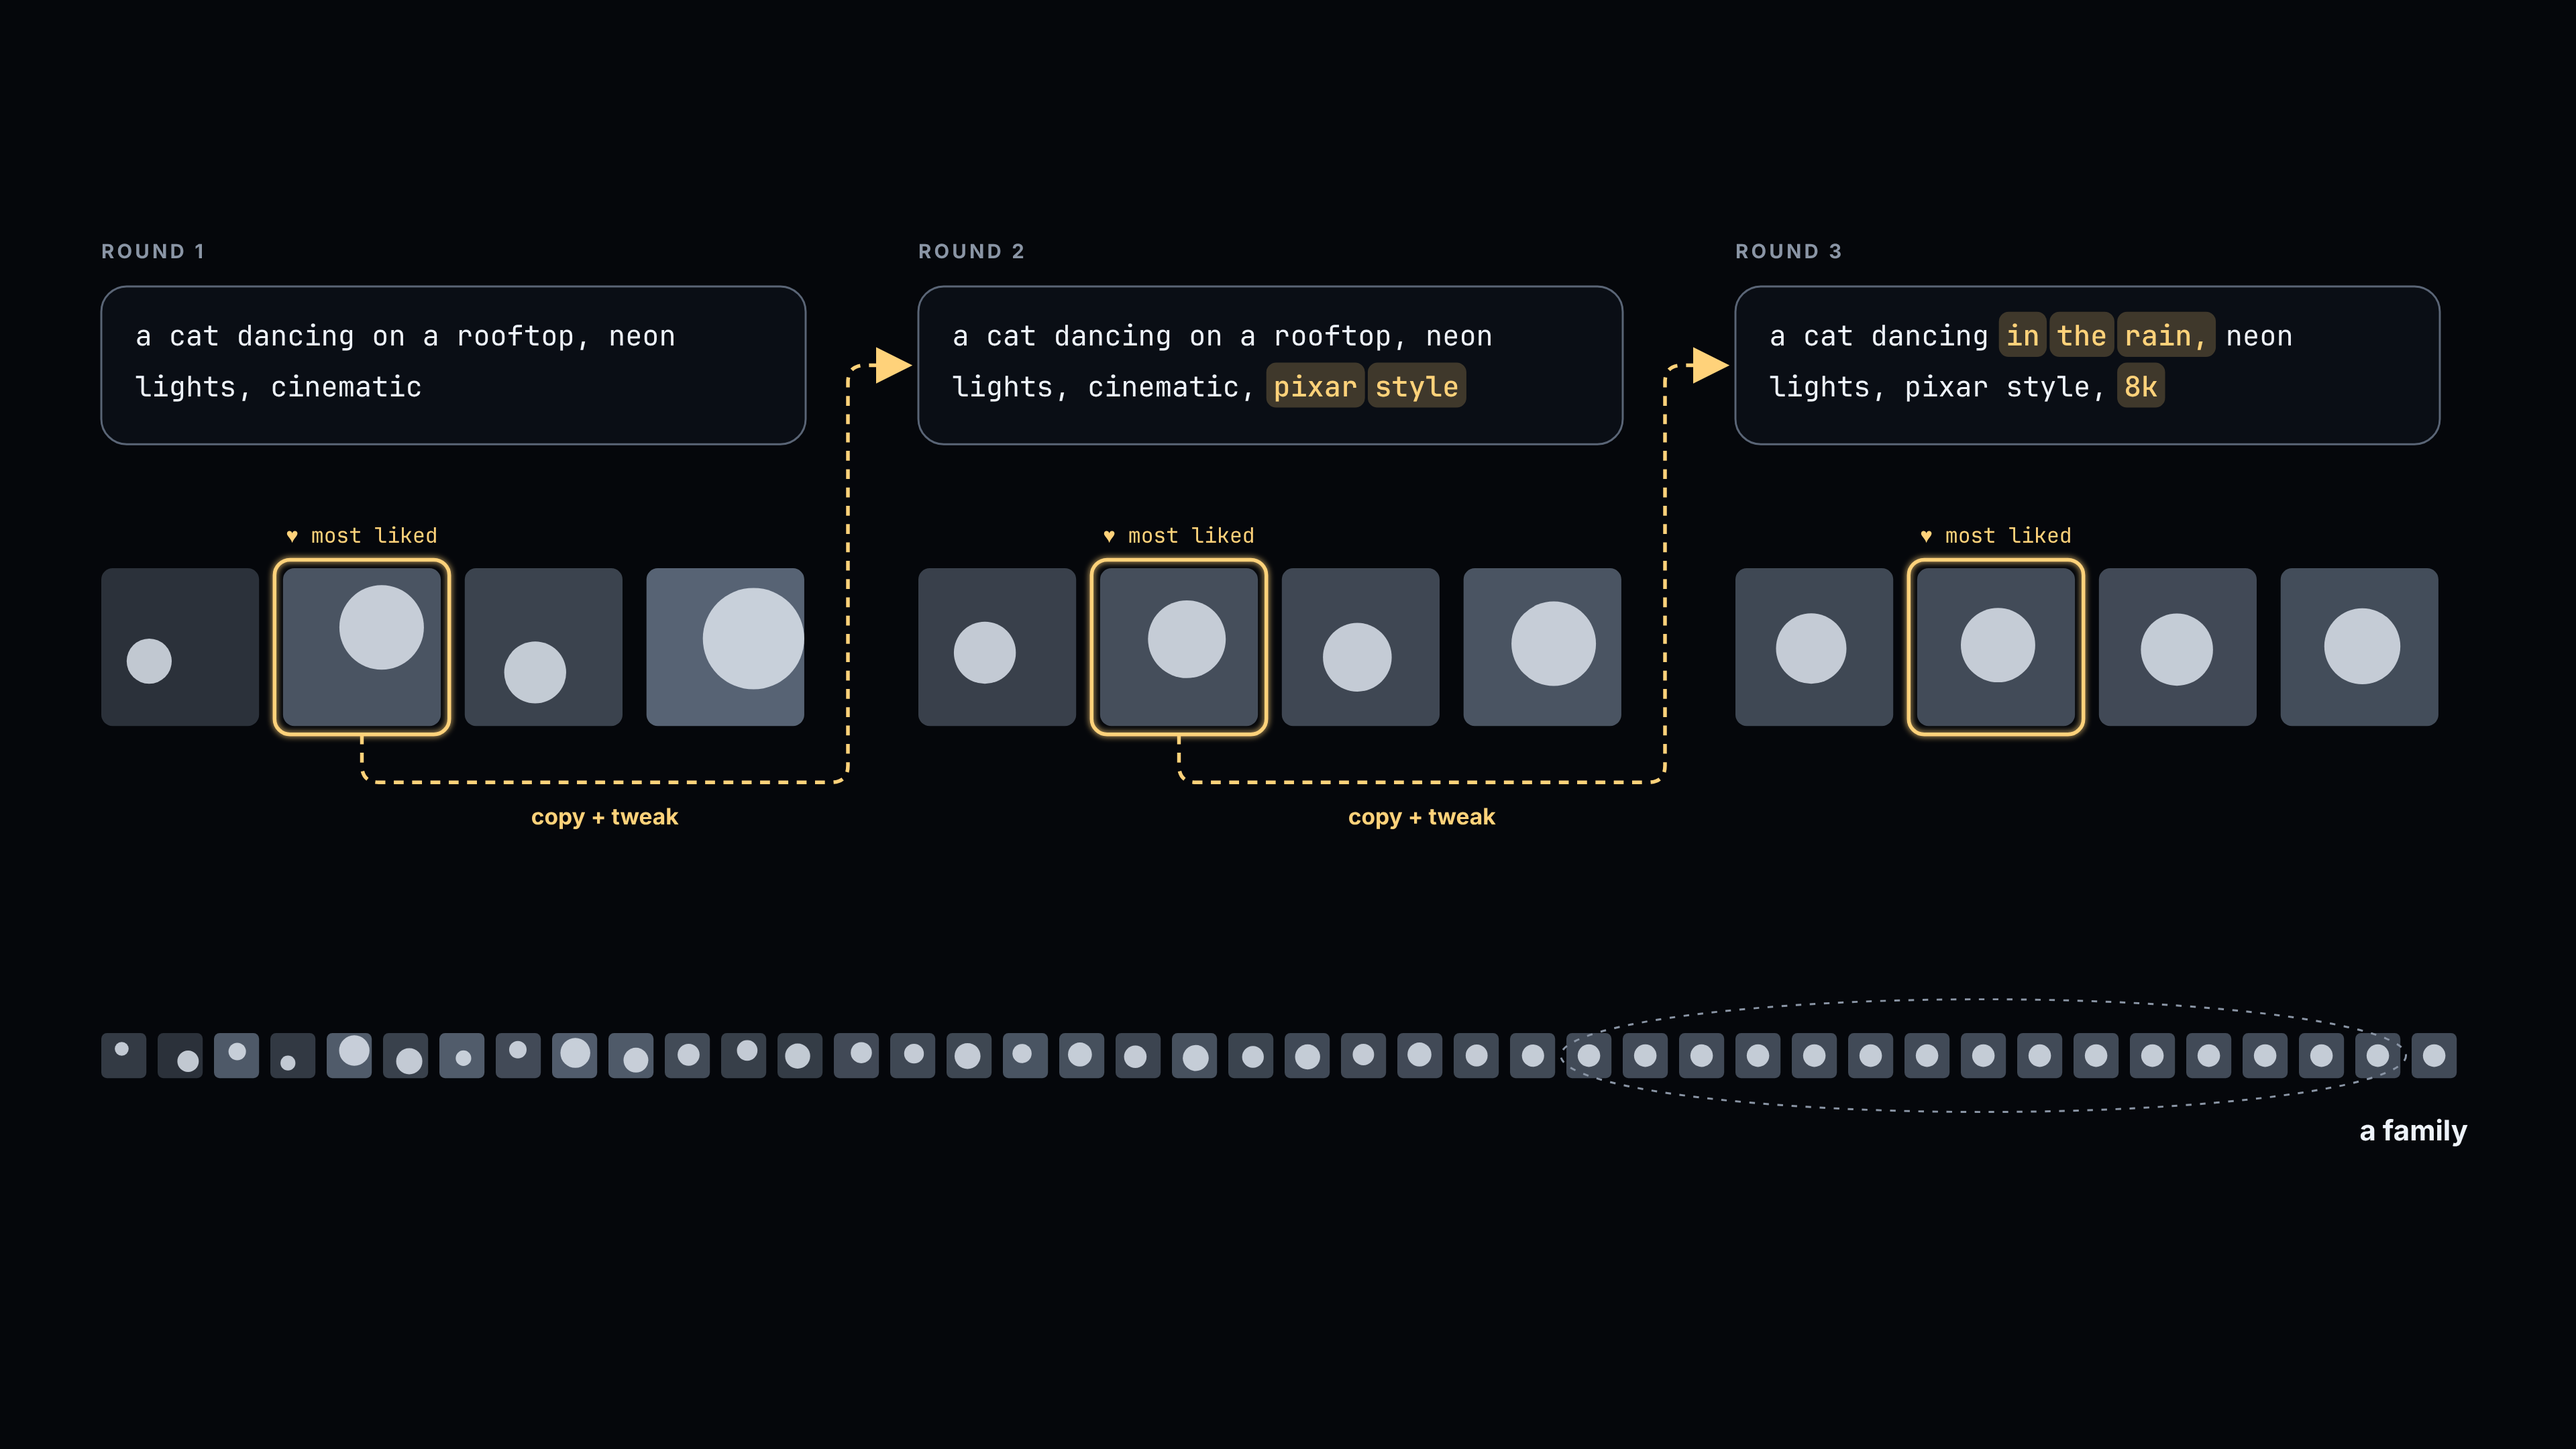
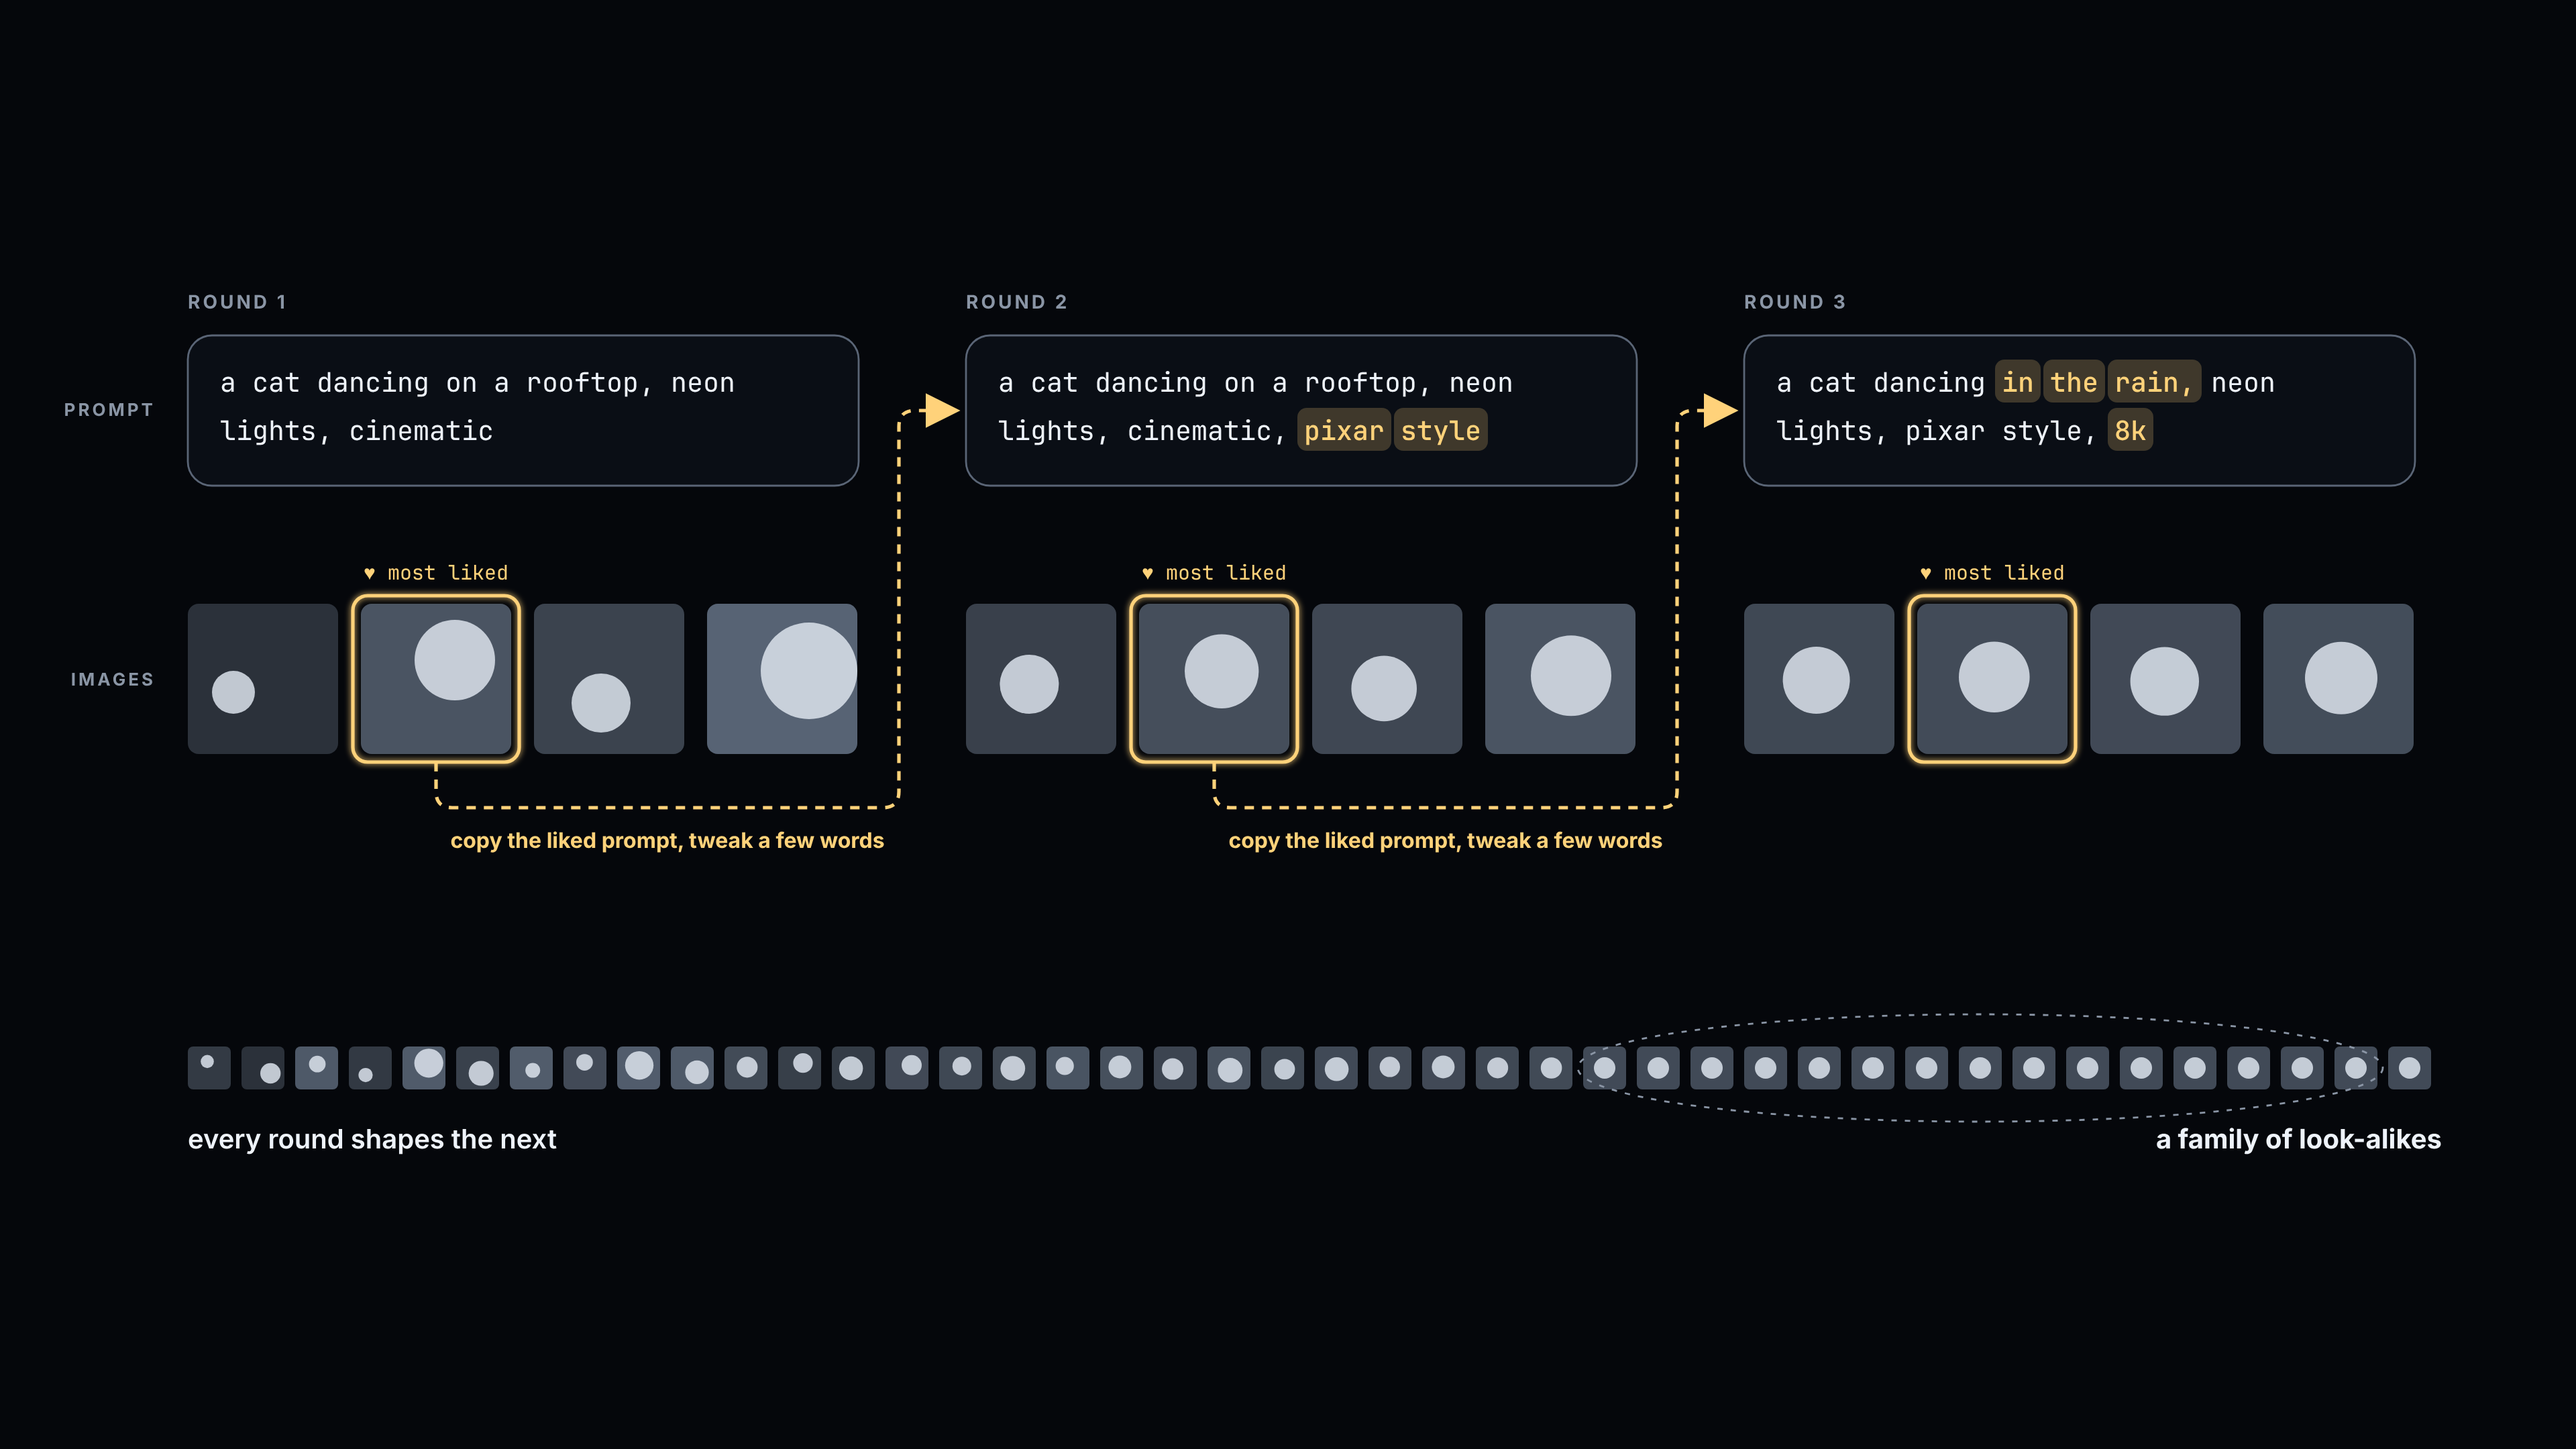
图表：少字版补回理解所需的标注
Claude-Session: https://claude.ai/code/session_01WNxkUauec9WvXf6dHSNMYy

diff --git a/docs/diagrams/src/prompt2.py b/docs/diagrams/src/prompt2.py
@@ -18,7 +18,7 @@ def T(x,y,t,size=14,c=W_,**k): g.text(x,y,t,size,c,fam=k.pop('fam','Inter'),**k)
 if not MIN:
     T(80,92,'Prompt reuse',46,W_,fam='Inter Display',weight=700,ls=-1)
     T(82,128,'A feed copies the item. Generation copies the recipe.',22,GOLD,weight=600)
-else: g.a('<g transform="translate(-40,-70) scale(1.05)">')
+else: g.a('<g transform="translate(30,-20) scale(1.0)">')
 prompts=[[('a',0),('cat',0),('dancing',0),('on',0),('a',0),('rooftop,',0),('neon',0),('lights,',0),('cinematic',0)],
          [('a',0),('cat',0),('dancing',0),('on',0),('a',0),('rooftop,',0),('neon',0),('lights,',0),('cinematic,',0),('pixar',1),('style',1)],
          [('a',0),('cat',0),('dancing',0),('in',1),('the',1),('rain,',1),('neon',0),('lights,',0),('pixar',0),('style,',0),('8k',1)]]
@@ -50,7 +50,10 @@ for r,pr in enumerate(prompts):
         d=(f'M{bx},{IY+TS+6} L{bx},{ly-12} Q{bx},{ly} {bx+12},{ly} L{gx-12},{ly} Q{gx},{ly} {gx},{ly-12} '
            f'L{gx},{PY+68} Q{gx},{PY+56} {gx+12},{PY+56} L{nx-12},{PY+56}')
         g.a(f'<path d="{d}" fill="none" stroke="{GOLD}" stroke-width="2.6" stroke-dasharray="7 6" marker-end="url(#mg)"/>')
-        g.text((bx+gx)/2,ly+30,'copy + tweak' if MIN else 'copy the liked prompt, tweak a few words',16,GOLD,anchor='middle',fam='Inter',weight=700)
+        g.text((bx+gx)/2,ly+30,'copy the liked prompt, tweak a few words',16,GOLD,anchor='middle',fam='Inter',weight=700)
+if MIN:
+    for lab,yy in (('PROMPT',PY+60),('IMAGES',IY+TS/2+5)):
+        g.text(X0-24,yy,lab,13,MU,anchor='end',fam='Inter',weight=700,ls=2)
 # family strip
 FY=800
 for k in range(42):
@@ -58,8 +61,8 @@ for k in range(42):
     g.rect(110+k*40,FY,32,32,fill=hsl(215,.14,l),rx=4)
     rr=random.uniform(4,13)*(1-mix)+8*mix; ox_=random.uniform(-7,7)*(1-mix); oy_=random.uniform(-7,7)*(1-mix)
     g.circ(126+k*40+ox_,FY+16+oy_,rr,'none',0,fill='#DCE3EC',op=.85)
-T(110,FY+76,'every round shapes the next',20,W_,weight=600) if not MIN else None
-T(1790,FY+76,'a family' if MIN else 'a family of look-alikes',20,W_,anchor='end',weight=700)
+T(110,FY+76,'every round shapes the next',20,W_,weight=600)
+T(1790,FY+76,'a family of look-alikes',20,W_,anchor='end',weight=700)
 g.ell(110+33*40+16,FY+16,300,40,0,'#8A95A5',1.4,dash='4 6')
 if MIN: g.a('</g>')
 else: g.text(80,1020,'Illustrative prompts in the style shared on open model hubs; to be replaced with real prompt chains.',13,MU,fam='JetBrains Mono')
@@ -87,7 +90,7 @@ T(cx,cy-20,'24',96,W_,anchor='middle',fam='Inter Display',weight=700)
 T(cx,cy+24,'hours in a day',20,MU,anchor='middle')
 T(cx+R*.92,cy-R*.62,'asleep 8 h',18,MU,weight=700); T(cx-R*1.02,cy-R*.62,'awake 16 h',18,GOLD,anchor='end',weight=700)
 T(cx,cy+R+70,'19,200',56,GOLD,anchor='middle',fam='Inter Display',weight=700)
-T(cx,cy+R+102,'seen' if MIN else 'images, if you did nothing but look, 3 s each',18 if MIN else 16,MU,anchor='middle')
+T(cx,cy+R+102,'images one person could see' if MIN else 'images, if you did nothing but look, 3 s each',18 if MIN else 16,MU,anchor='middle')
 # right: flood of tiles
 x0,y0,w,h=820,220,1020,640
 cols,rows=68,40; s=w/cols
@@ -99,10 +102,13 @@ for i in range(rows):
 # the portion one person can see (19,200 / 254,000 ≈ 7.6 %)
 frac=19200/254117; ncell=int(cols*rows*frac)
 g.a(f'<rect x="{x0-4}" y="{y0-4}" width="{(ncell//rows+1)*s+4:.1f}" height="{rows*s+4:.1f}" fill="none" stroke="{GOLD}" stroke-width="3" filter="url(#gl)"/>')
-T(x0,y0-18,'what one person can see',18,GOLD,weight=700) if not MIN else None
+T(x0,y0-18,'what one person can see',18,GOLD,weight=700)
 g.a(f'<rect x="{x0}" y="{y0+rows*s-60}" width="{w}" height="60" fill="url(#fade)"/>')
 T(x0+w,y0+rows*s+70,'254,000',56,W_,anchor='end',fam='Inter Display',weight=700)
-T(x0+w,y0+rows*s+102,'made' if MIN else 'images a day from this installation’s feed alone (one every 0.34 s)',18 if MIN else 16,MU,anchor='end')
-if MIN: g.a('</g>')
+T(x0+w,y0+rows*s+102,'images made by this installation' if MIN else 'images a day from this installation’s feed alone (one every 0.34 s)',18 if MIN else 16,MU,anchor='end')
+if MIN:
+    T(cx,cy+R+126,'16 waking hours · 3 s per image',14,MU,anchor='middle')
+    T(x0+w,y0+rows*s+126,'in one day · one every 0.34 s',14,MU,anchor='end')
+    g.a('</g>')
 else: g.text(80,1020,'Each square = about 94 images. Assumptions: 16 waking hours, 3 seconds per image, nothing else done all day.',13,MU,fam='JetBrains Mono')
 g.save(OUT+f'/F13_attention{SUF}.svg')
